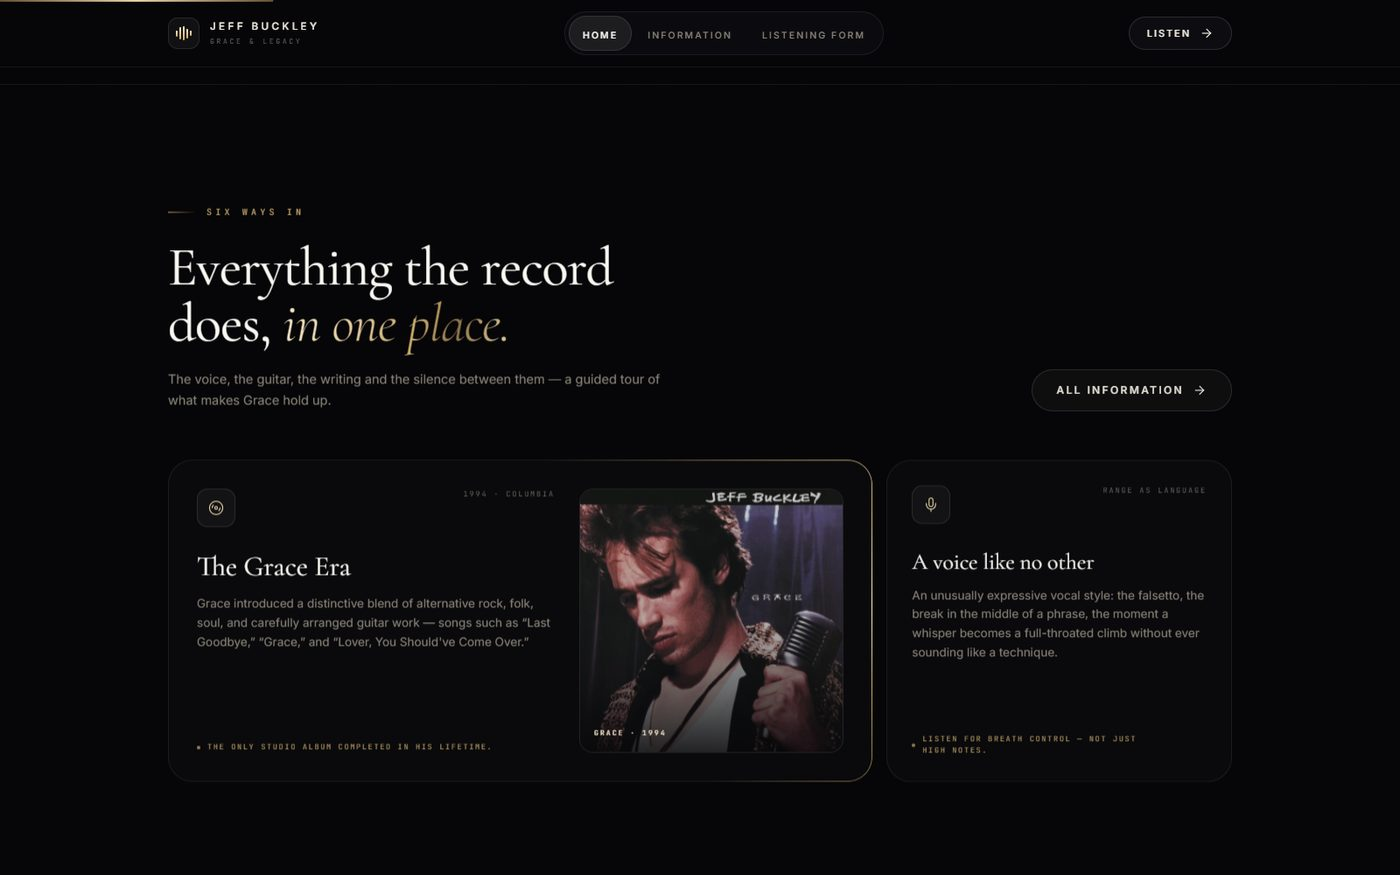
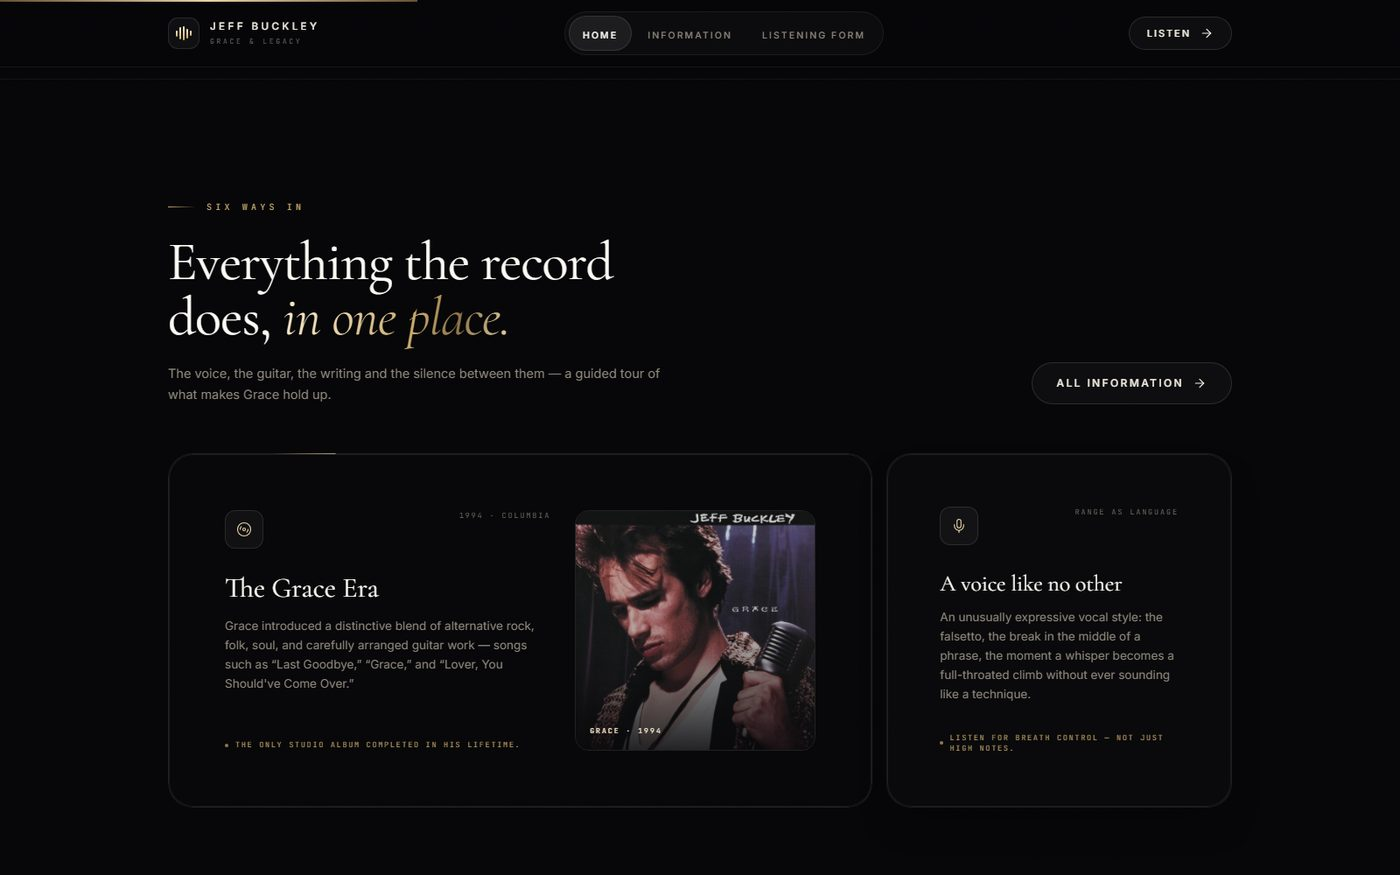
Refresh documentation screenshots and integration guide

diff --git a/README.md b/README.md
@@ -7,6 +7,8 @@ particle field, a lightbox gallery, and a working custom audio player.
 
 ![Home page hero](docs/screenshots/hero.jpg)
 
+![Signal path section — animated beams and orbiting tracks](docs/screenshots/signal.jpg)
+
 ---
 
 ## Quick start
